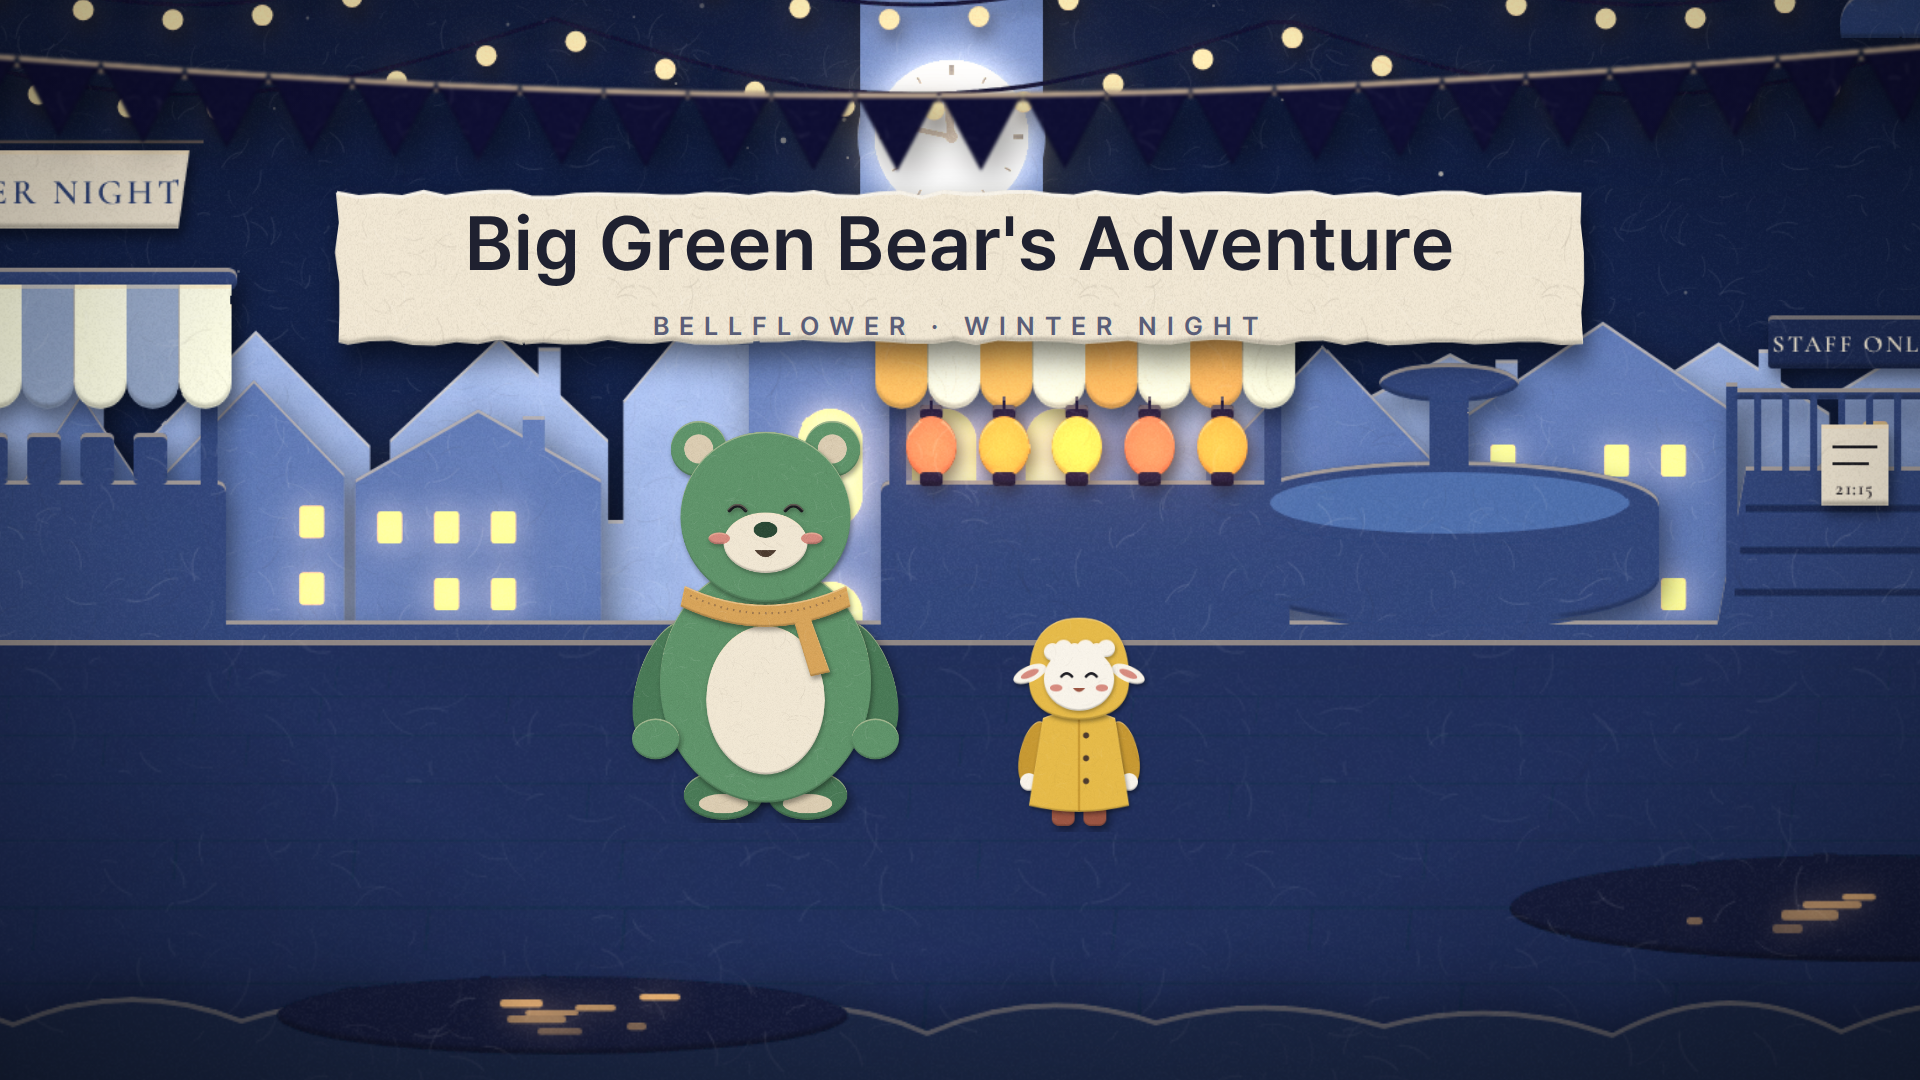
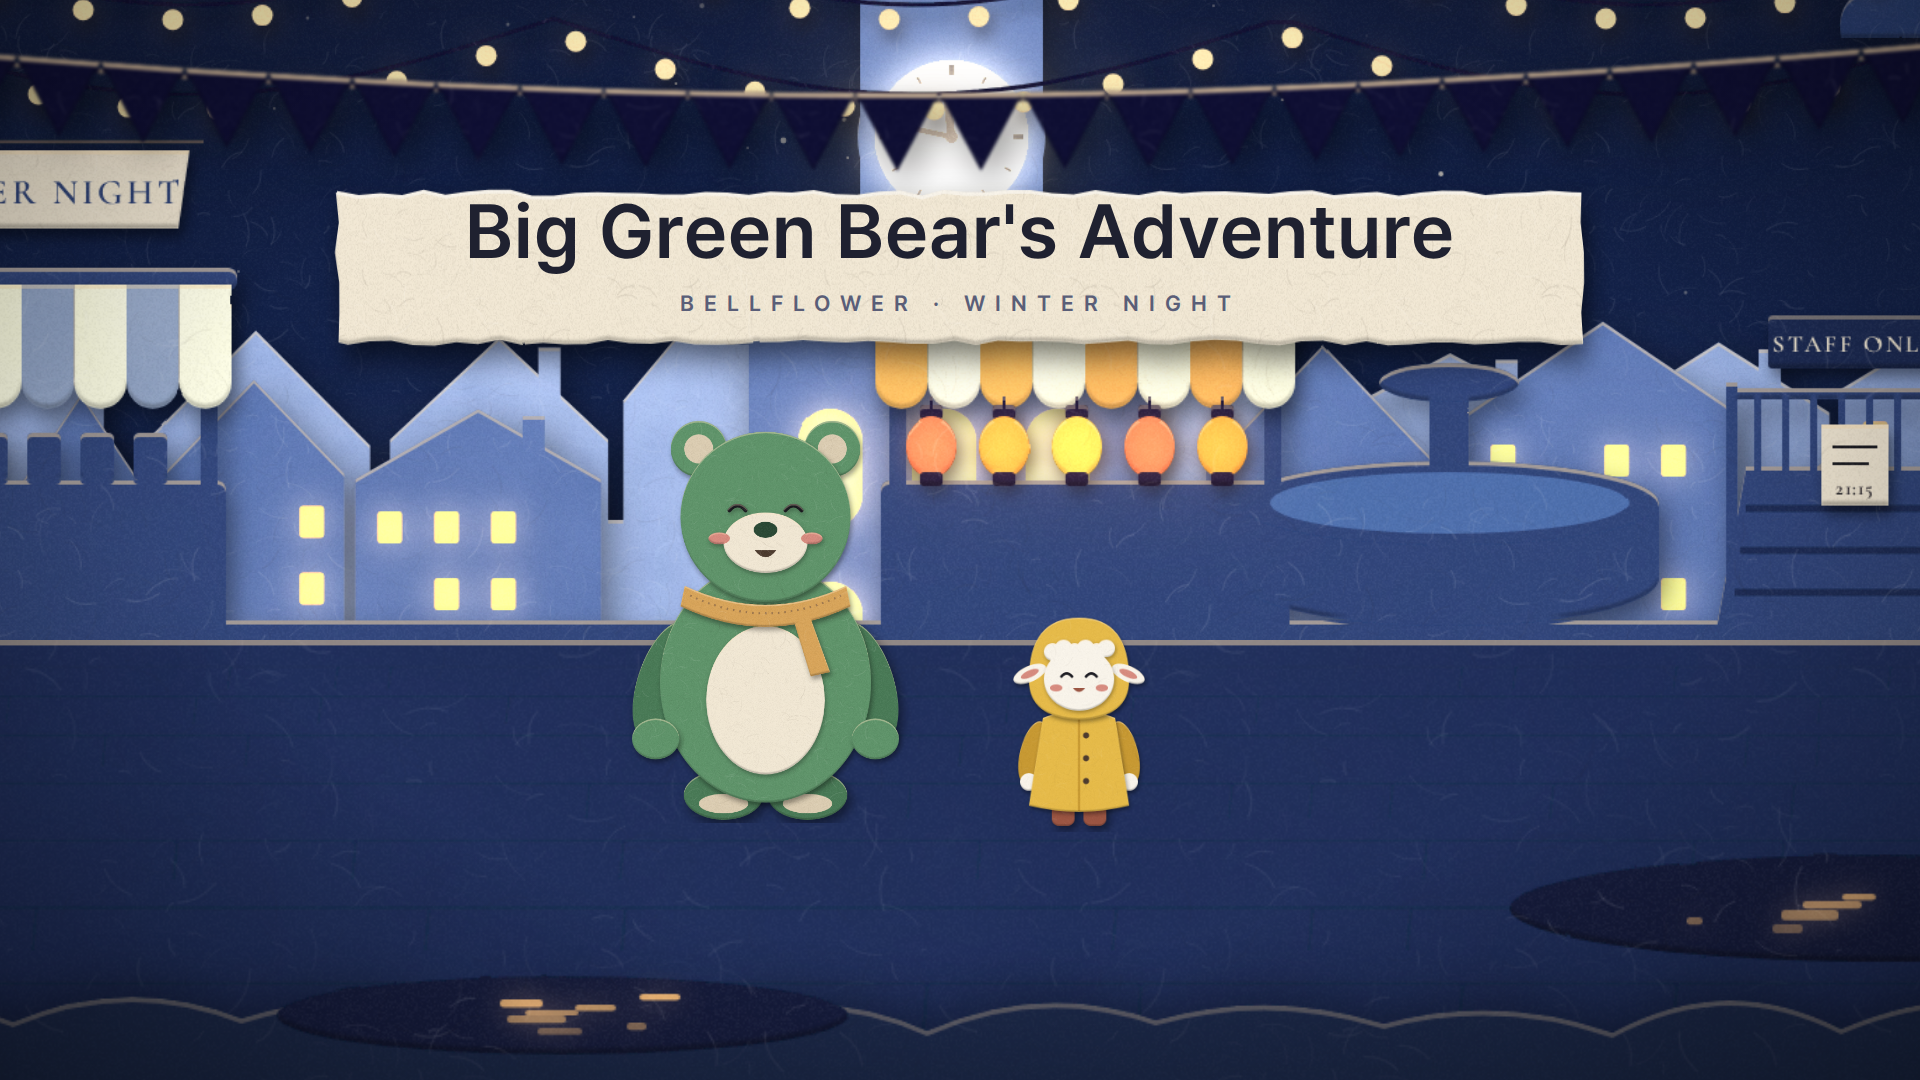
Promo: fit the English title on the paper strip
Claude-Session: https://claude.ai/code/session_01VPL1CzxsZ6j7ZHNesMRMMp

Changed region(s): [[0.25, 0.1833, 0.7812, 0.3056]]

diff --git a/big-green-bear-unity/tools/promo.js b/big-green-bear-unity/tools/promo.js
@@ -97,8 +97,8 @@ function compose(shot) {
   }
   if (shot.title) {
     html += `<div style="position:absolute;left:50%;top:150px;transform:translateX(-50%);width:1300px;height:250px;background:url('file://${ART}ui_strip.png') center/100% 100% no-repeat"></div>
-      <div style="position:absolute;left:0;right:0;top:${LANG === "en" ? 198 : 188}px;text-align:center;font-family:PB;font-size:${LANG === "en" ? 76 : 92}px;letter-spacing:${LANG === "en" ? 1 : 4}px;color:#1F2130">${LANG === "en" ? "Big Green Bear's Adventure" : "빅그린베어의 모험"}</div>
-      <div style="position:absolute;left:0;right:0;top:310px;text-align:center;font-family:PB;font-size:26px;letter-spacing:10px;color:#5A5E78">${LANG === "en" ? "BELLFLOWER · WINTER NIGHT" : "BIG GREEN BEAR'S ADVENTURE"}</div>`;
+      <div style="position:absolute;left:0;right:0;top:${LANG === "en" ? 186 : 188}px;text-align:center;font-family:PB;font-size:${LANG === "en" ? 76 : 92}px;letter-spacing:${LANG === "en" ? 1 : 4}px;color:#1F2130">${LANG === "en" ? "Big Green Bear's Adventure" : "빅그린베어의 모험"}</div>
+      <div style="position:absolute;left:0;right:0;top:${LANG === "en" ? 290 : 310}px;text-align:center;font-family:PB;font-size:${LANG === "en" ? 22 : 26}px;letter-spacing:10px;color:#5A5E78">${LANG === "en" ? "BELLFLOWER · WINTER NIGHT" : "BIG GREEN BEAR'S ADVENTURE"}</div>`;
   }
   return html + `</body></html>`;
 }
